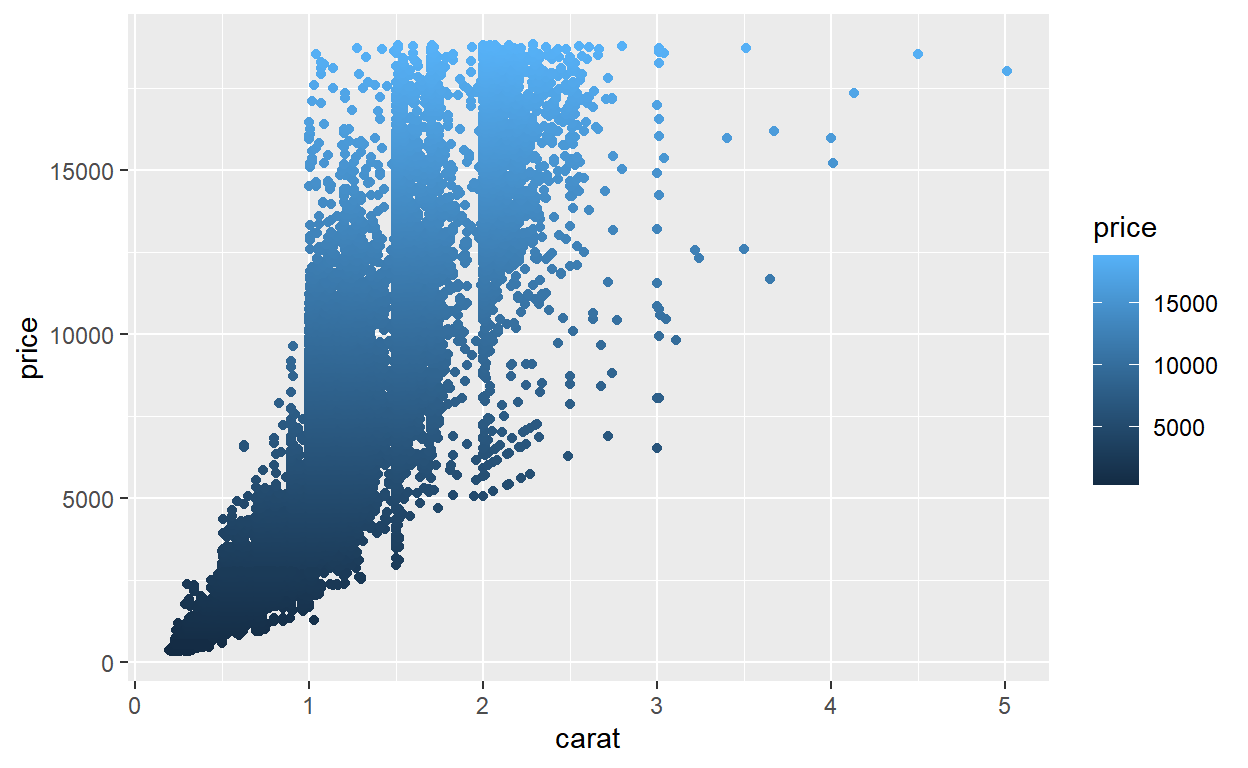
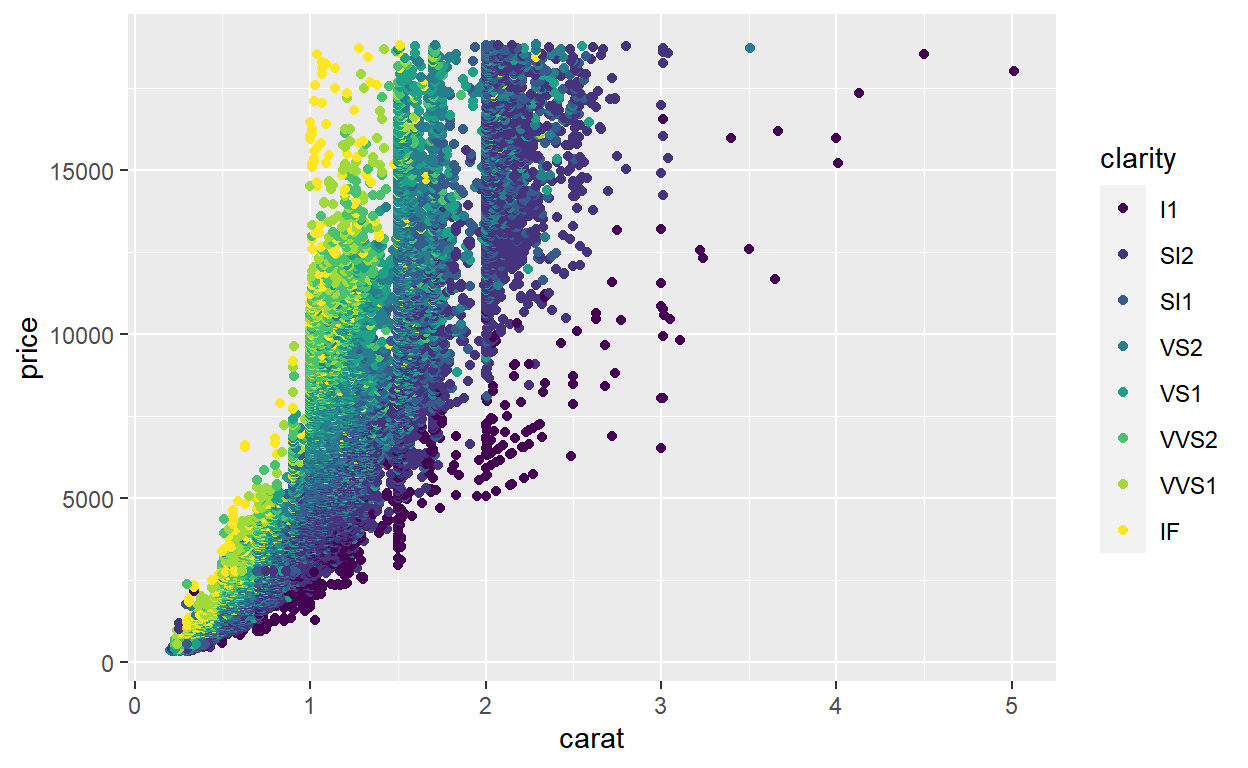
added cv page

diff --git a/docs/CV.html b/docs/CV.html
@@ -2087,7 +2087,7 @@ code span.wa { color: #5e5e5e; font-style: italic; } /* Warning */
 <div class="layout-chunk" data-layout="l-body">
 <div class="sourceCode">
 <pre class="sourceCode r"><code class="sourceCode r"><span class='fu'>ggplot</span><span class='op'>(</span>data <span class='op'>=</span> <span class='va'>diamonds</span>, <span class='fu'>aes</span><span class='op'>(</span>x <span class='op'>=</span> <span class='va'>carat</span>, y <span class='op'>=</span> <span class='va'>price</span><span class='op'>)</span><span class='op'>)</span> <span class='op'>+</span> 
-  <span class='fu'>geom_point</span><span class='op'>(</span><span class='fu'>aes</span><span class='op'>(</span>color <span class='op'>=</span> <span class='va'>price</span><span class='op'>)</span><span class='op'>)</span>
+  <span class='fu'>geom_point</span><span class='op'>(</span><span class='fu'>aes</span><span class='op'>(</span>color <span class='op'>=</span> <span class='va'>clarity</span><span class='op'>)</span><span class='op'>)</span>
 </code></pre>
 </div>
 <p><img src="CV_files/figure-html5/unnamed-chunk-1-1.png" width="624" /></p>
